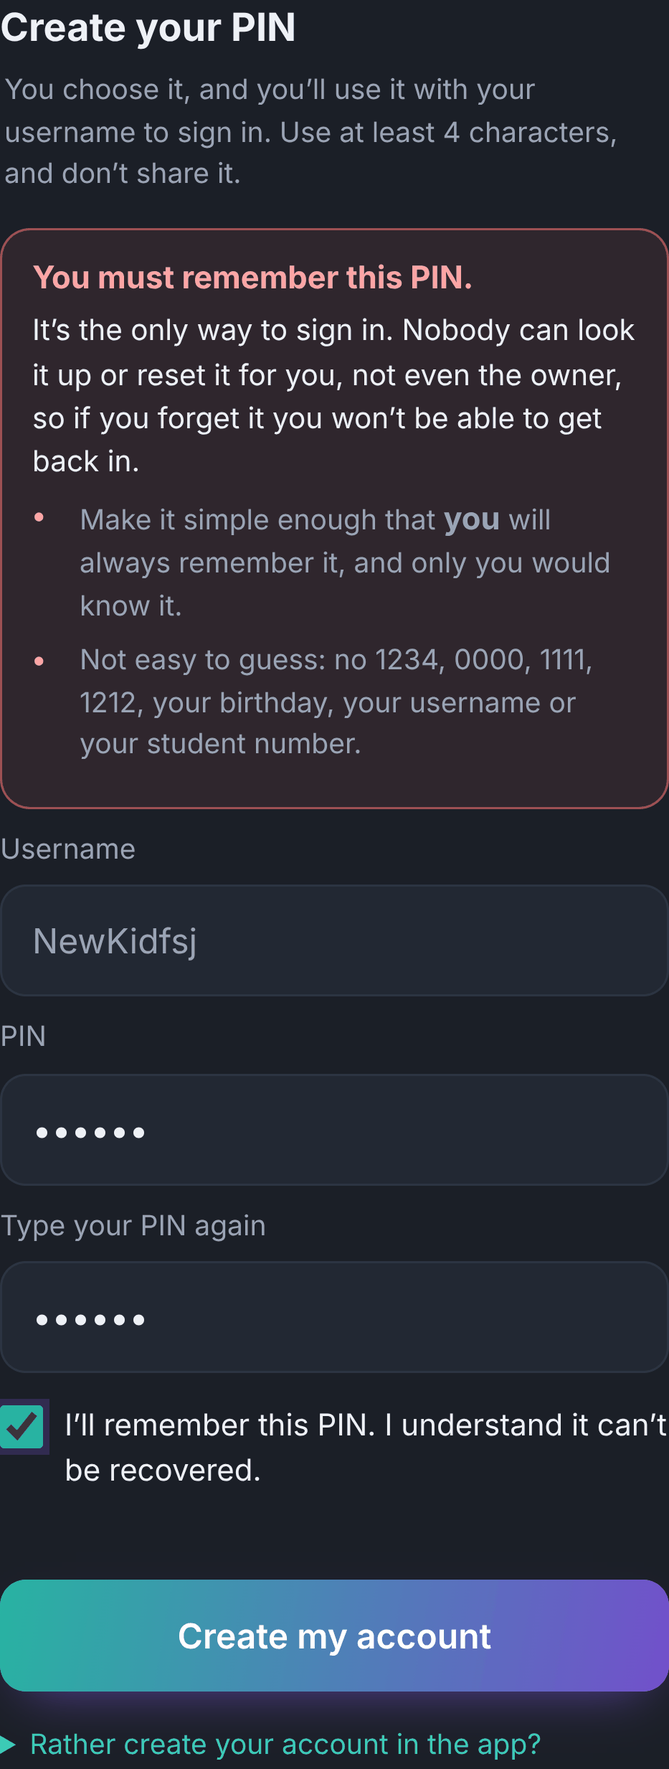
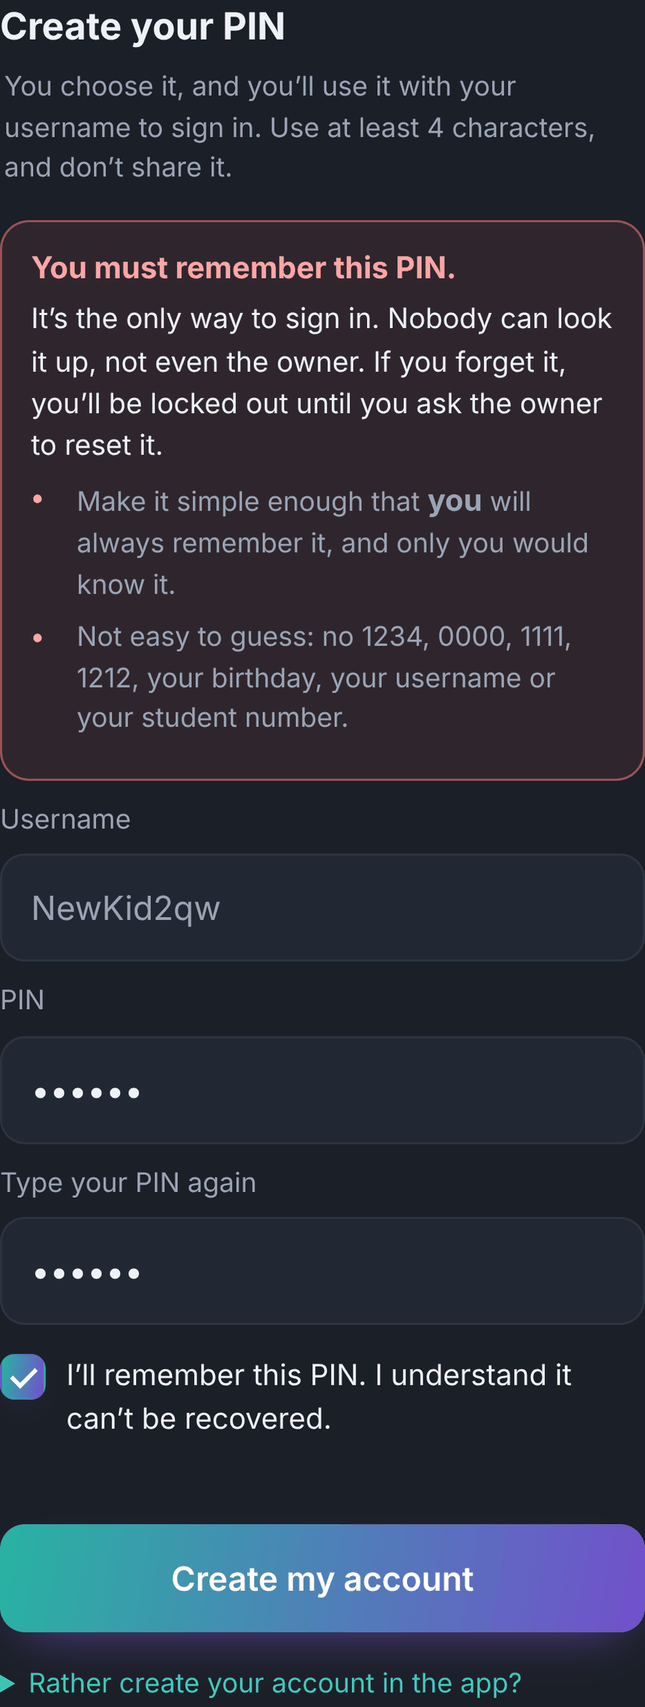
Reset a forgotten PIN with a one-time code; themed checkbox on the subscribe page
- Owner: Reset PIN (Allowed users rows, Users -> Actions) gives a one-time
  code (7 days) and signs the person out. They keep their account; at
  sign-in a new PIN plus the code sets it. Cancel reset stops it. Only the
  owner sees the codes. Replaces the old reset that deleted the account.
- Sign-in labels the code box "Reset code (from the owner)".
- Subscribe page: the checkbox matches the page (teal-to-violet when
  ticked); the warning says a forgotten PIN needs the owner to reset it.
- Screenshots updated in docs/screenshots (walkthrough, checkbox, PIN reset).

Claude-Session: https://claude.ai/code/session_01NctB9gYwwtoWGB2Q6rMk3L

diff --git a/script.js b/script.js
@@ -789,7 +789,10 @@ function modelSupportsReasoning(id) { return REASONING_MODELS.has((id || '').tri
       console: ['change', 'Subscribe page: contributions start at $6'] } },
     { at: '2026-10-19T03:00:00-04:00', commit: '', title: 'New subscribers: PIN warning and school email', parts: {
       console: ['feature', 'Subscribe page: a clear “you must remember this PIN” warning with a checkbox, easy-to-guess PINs refused, then the school email (6 digits @alseducation.onmicrosoft.com)'],
-      admin: ['feature', 'Security → New subscribers: each new subscriber’s school email, your instructions Google Doc link, and Email instructions (opens your mail app, then marks it sent); you and admins get an alert'] } }
+      admin: ['feature', 'Security → New subscribers: each new subscriber’s school email, your instructions Google Doc link, and Email instructions (opens your mail app, then marks it sent); you and admins get an alert'] } },
+    { at: '2026-10-19T04:00:00-04:00', commit: '', title: 'Reset a forgotten PIN safely', parts: {
+      admin: ['feature', 'Reset PIN (Allowed users rows and Users → Actions) now gives a one-time code: the person keeps their account and sets a new PIN at sign-in with it (7 days, one use); Cancel reset stops it'],
+      console: ['change', 'Sign-in asks for the owner’s reset code when a PIN was reset; the subscribe page’s checkbox matches the page’s style'] } }
   ];
   const PART_NAMES = {
     console: 'Console shell', selection: 'Selection assistant', welcome: 'Welcome', scan: 'Page Insights', ask: 'Ask AI', chat: 'Chat',
@@ -3114,7 +3117,7 @@ function modelSupportsReasoning(id) { return REASONING_MODELS.has((id || '').tri
         <label class="gpa-login-label" for="gpa-login-pin">PIN</label>
         <input id="gpa-login-pin" class="gpa-login-input" type="password" placeholder="••••••" autocomplete="off" />
         <div id="gpa-login-invite-wrap" hidden>
-          <label class="gpa-login-label" for="gpa-login-invite">Invite code</label>
+          <label class="gpa-login-label" for="gpa-login-invite" id="gpa-login-invite-label">Invite code</label>
           <input id="gpa-login-invite" class="gpa-login-input" placeholder="e.g. K7MQ-4X2P" autocomplete="off" autocapitalize="characters" spellcheck="false" />
         </div>
         <div id="gpa-login-msg" class="gpa-login-msg"></div>
@@ -16106,6 +16109,8 @@ function modelSupportsReasoning(id) { return REASONING_MODELS.has((id || '').tri
     if (!r.ok && r.inviteRequired && inviteWrap) {
       // An invited name: show the code box (only now, so nobody else ever sees it).
       inviteWrap.hidden = false;
+      const lab = panel.querySelector('#gpa-login-invite-label');
+      if (lab) lab.textContent = r.pinReset ? 'Reset code (from the owner)' : 'Invite code';
       showLoginMsg(serverSessionError, true);
       try { panel.querySelector('#gpa-login-invite').focus(); } catch (e) { /* ignore */ }
       return;
@@ -16254,13 +16259,14 @@ function modelSupportsReasoning(id) { return REASONING_MODELS.has((id || '').tri
           : r.status === 409 && r.data.inUse && r.data.sameComputer ? '“' + user + '” is already signed in on this computer' + (r.data.site ? ' on ' + r.data.site : '') + '.'
           : r.status === 409 && r.data.inUse ? '“' + user + '” is already signed in on another device. Sign out there first, or try again in about ' + (r.data.waitMin || 15) + ' min. The owner can also sign it out.'
             : r.status === 409 && r.data.exists ? 'That name is already taken.'
+              : r.status === 403 && r.data.inviteRequired && r.data.pinReset ? (r.data.wrongInvite ? 'That reset code isn’t right. Check it with the owner.' : 'The owner reset the PIN for “' + user + '”. Type the new PIN you want above and the reset code below, then tap Sign in.')
               : r.status === 403 && r.data.inviteRequired ? (r.data.wrongInvite ? 'That invite code isn’t right. Check it with the owner.' : '“' + user + '” needs its sign-up code (from your payment page, or the owner). Enter it below, then tap ＋ (create account) again.')
               : r.status === 403 && /reserved/.test(r.data.error || '') ? "This name is reserved for the console's owner."
                 : r.status === 403 && r.data.notAllowed ? ACCESS_DENIED_MSG
                   : r.status === 429 ? 'Too many attempts. Try again in a few minutes.'
                     : (r.data.error || ('HTTP ' + r.status));
         result = { ok: false, wrongPin: r.status === 401 || (r.status === 409 && !!r.data.exists), inUse: r.status === 409 && !!r.data.inUse,
-          sameComputer: r.status === 409 && !!r.data.sameComputer, site: (r.data && r.data.site) || '', inviteRequired: r.status === 403 && !!r.data.inviteRequired };
+          sameComputer: r.status === 409 && !!r.data.sameComputer, site: (r.data && r.data.site) || '', inviteRequired: r.status === 403 && !!r.data.inviteRequired, pinReset: r.status === 403 && !!r.data.pinReset };
       }
     } catch (e) {
       serverSessionStatus = 'offline';
@@ -21618,11 +21624,13 @@ function modelSupportsReasoning(id) { return REASONING_MODELS.has((id || '').tri
             + `<div class="gac-allow-row"><span class="gps-hint" id="gac-allow-count">${((d.config.allowlist && d.config.allowlist.users) || []).length} listed</span><button class="gps-btn primary" id="gac-allow-save" type="button">Save list</button></div>`
             + `<p class="gps-hint">One sign-in per name: while this is on, each listed name works only with its PIN, on one device at a time (admins and you can use several). A second device is refused while the first was used in the last 15 minutes; signing out frees the name right away.</p>`
             + ((d.config.allowAccounts || []).length ? `<ul class="gac-acct-list" id="gac-allow-accts">` + d.config.allowAccounts.map((a) => `<li class="gac-acct" data-user="${esc(a.user)}"><div class="gac-acct-top"><span class="gac-req-name">${esc(a.user)}</span>`
-              + `<span class="gac-req-badge ${a.signedIn ? 'pending' : ''}">${a.signedIn ? 'Signed in' : a.claimed ? 'Signed out' : 'No PIN yet'}</span></div>`
-              + `<div class="gac-req-meta">${a.claimed ? (a.lastSeen ? 'Last used ' + ago(a.lastSeen) + (a.country && a.country !== '??' ? ' · ' + esc(a.country) : '') + (a.device ? ' · ' + esc(deviceName(a.device)) : '') : 'PIN set ' + (a.createdAt ? ago(a.createdAt) : ''))
+              + `<span class="gac-req-badge ${a.signedIn ? 'pending' : ''}">${a.pinReset ? 'PIN reset' : a.signedIn ? 'Signed in' : a.claimed ? 'Signed out' : 'No PIN yet'}</span></div>`
+              + `<div class="gac-req-meta">${a.pinReset ? `Reset code <code class="gac-invite-code">${esc(a.pinReset)}</code> · give it to ${esc(a.user)}: on the sign-in screen they type “${esc(a.user)}”, a <b>new</b> PIN and this code, then tap Sign in. Works once, for 7 days; their old PIN still works until then.`
+                : a.claimed ? (a.lastSeen ? 'Last used ' + ago(a.lastSeen) + (a.country && a.country !== '??' ? ' · ' + esc(a.country) : '') + (a.device ? ' · ' + esc(deviceName(a.device)) : '') : 'PIN set ' + (a.createdAt ? ago(a.createdAt) : ''))
                 : a.invite ? `Invite code <code class="gac-invite-code">${esc(a.invite)}</code> · only someone with this code can create “${esc(a.user)}”. Give it to them.`
                   : 'The first person to create this account sets its PIN. Make sure it’s them, or make an invite code.'}</div>`
-              + (a.claimed ? `<div class="gac-req-actions">${a.signedIn ? '<button class="gps-btn" data-acct="revokesessions" type="button">Sign out</button>' : ''}<button class="gps-btn" data-acct="release" type="button">Reset PIN</button></div>`
+              + (a.claimed && a.pinReset ? `<div class="gac-req-actions"><button class="gps-btn primary" data-acct="invite-copy" type="button">Copy code</button><button class="gps-btn" data-acct="resetcancel" type="button">Cancel reset</button></div>`
+                : a.claimed ? `<div class="gac-req-actions">${a.signedIn ? '<button class="gps-btn" data-acct="revokesessions" type="button">Sign out</button>' : ''}<button class="gps-btn" data-acct="resetpin" type="button">Reset PIN</button></div>`
                 : `<div class="gac-req-actions">${a.invite ? '<button class="gps-btn" data-acct="invite-copy" type="button">Copy code</button><button class="gps-btn" data-acct="invite-revoke" type="button">Remove code</button>' : '<button class="gps-btn" data-acct="invite-make" type="button">Make invite code</button>'}</div>`)
               + `</li>`).join('') + `</ul>` : ''), 'account') : '')
           + `<div id="gac-legacy-security"></div></aside></div>`;
@@ -21752,7 +21760,8 @@ function modelSupportsReasoning(id) { return REASONING_MODELS.has((id || '').tri
           const user = btn.closest('.gac-acct').dataset.user, action = btn.dataset.acct;
           if (action === 'invite-copy') {
             const code = btn.closest('.gac-acct').querySelector('.gac-invite-code').textContent;
-            try { await navigator.clipboard.writeText(code); showToast('Copied ' + user + '’s invite code.'); } catch (err) { showToast(user + '’s invite code: ' + code); }
+            const what = btn.closest('.gac-acct').querySelector('.gac-req-badge').textContent === 'PIN reset' ? 'reset code' : 'invite code';
+            try { await navigator.clipboard.writeText(code); showToast('Copied ' + user + '’s ' + what + '.'); } catch (err) { showToast(user + '’s ' + what + ': ' + code); }
             return;
           }
           if (action === 'invite-make' || action === 'invite-revoke') {
@@ -21765,11 +21774,12 @@ function modelSupportsReasoning(id) { return REASONING_MODELS.has((id || '').tri
             } catch (err) { btn.disabled = false; showToast(err.message, { type: 'danger' }); }
             return;
           }
-          if (action === 'release' && !confirm('Reset the PIN for “' + user + '”? They’re signed out, and the next person to create “' + user + '” sets a new PIN — make sure that’s them.')) return;
+          if (action === 'resetpin' && !confirm('Reset the PIN for “' + user + '”? You get a one-time code to give them; with it they set a new PIN at sign-in. They’re signed out now, and keep their account and everything in it.')) return;
+          if (action === 'resetcancel' && !confirm('Cancel the PIN reset for “' + user + '”? The code stops working; their old PIN still works.')) return;
           btn.disabled = true;
           try {
             await api('/admin/user/action', { method: 'POST', body: { u: user, action } });
-            showToast(action === 'release' ? user + ' can set a new PIN now.' : user + ' was signed out.');
+            showToast(action === 'resetpin' ? 'Reset code made for ' + user + '. Copy it and give it to them.' : action === 'resetcancel' ? user + '’s PIN reset was cancelled.' : user + ' was signed out.');
             RENDER.security().catch((err) => errorBox('security', err));
           } catch (err) { btn.disabled = false; showToast(err.message, { type: 'danger' }); }
         });
@@ -22107,9 +22117,11 @@ function modelSupportsReasoning(id) { return REASONING_MODELS.has((id || '').tri
         + card('Actions', `<div class="gac-actions">`
           + (can('moderation.manage') ? `<button class="gps-btn" data-mod="${st.state === 'blocked' ? 'unblock' : 'block'}">${st.state === 'blocked' ? 'Unblock' : 'Block'}</button><button class="gps-btn" data-mod="mute" data-hours="1">Mute 1 hour</button><button class="gps-btn" data-mod="warn">Warn</button><button class="gps-btn" data-mod="${m.aiFrozen ? 'unfreezeai' : 'freezeai'}">${m.aiFrozen ? 'Unfreeze AI' : 'Freeze AI'}</button>${m.pending ? '<button class="gps-btn" data-mod="approve">Approve</button>' : ''}<button class="gps-btn" data-mod="kick">Sign out now</button>` : '')
           + (d.account && can('users.manage') ? '<button class="gps-btn" data-ua="revokesessions">Revoke sessions</button>' : '')
+          + (d.account && isOwner() && d.role !== 'owner' ? (d.pinReset ? '<button class="gps-btn" data-ua="resetcancel">Cancel PIN reset</button>' : '<button class="gps-btn" data-ua="resetpin">Reset PIN</button>') : '')
           + (d.account && can('users.suspend') ? `<button class="gps-btn" data-ua="${d.account.disabled ? 'enable' : 'disable'}">${d.account.disabled ? 'Enable account' : 'Disable account'}</button>` : '')
           + (can('users.delete') ? '<button class="gps-btn gps-btn-danger" data-ua="delete">Delete user…</button>' : '')
-          + `</div>`, 'users', 'gac-insp-actions')
+          + `</div>`
+          + (d.pinReset ? `<p class="gps-hint gac-reset-note">PIN reset code <code class="gac-invite-code">${esc(d.pinReset.code)}</code>: give it to ${esc(d.user)}. On the sign-in screen they type their username, a <b>new</b> PIN and this code, then tap Sign in. Works once, until ${esc(new Date(d.pinReset.until).toLocaleDateString([], { month: 'short', day: 'numeric' }))}.</p>` : ''), 'users', 'gac-insp-actions')
         + `</aside></div>`;
       box.querySelector('#gac-insp-close').addEventListener('click', () => { box.hidden = true; state.inspecting = null; });
       box.querySelectorAll('[data-ua]').forEach((b) => b.addEventListener('click', async () => {
@@ -22118,6 +22130,7 @@ function modelSupportsReasoning(id) { return REASONING_MODELS.has((id || '').tri
         if (action === 'setrole') payload.role = box.querySelector('#gac-role').value;
         if (action === 'quota') box.querySelectorAll('[data-q]').forEach((i) => { payload[i.dataset.q] = i.dataset.q === 'allowedModels' ? i.value.split(',').map((x) => x.trim()).filter(Boolean) : i.value; });
         if (action === 'delete') { const c = await typedConfirm(b, key, 'Delete user'); if (!c) return; payload.confirm = c; }
+        if (action === 'resetpin' && !confirm('Reset the PIN for “' + d.user + '”? You get a one-time code to give them; with it they set a new PIN at sign-in. They’re signed out now, and keep their account and everything in it.')) return;
         try { await api('/admin/user/action', { method: 'POST', body: payload }); showToast('Done.'); if (action === 'delete') { box.hidden = true; RENDER.users(); } else openUser(key); }
         catch (e) { showToast(e.message, { type: 'danger' }); }
       }));

diff --git a/worker.js b/worker.js
@@ -1372,6 +1372,8 @@ async function handleRequest(req, env, ctx, operationReserved = false) {
       return c.slice(0, 4) + '-' + c.slice(4);
     };
     const normInvite = (c) => String(c || '').toUpperCase().replace(/[^A-Z0-9]/g, '');
+    // A PIN reset the owner started: { code, until, by } (7 days, one use).
+    const pinResetKey = (u) => 'pinreset:' + String(u || '').toLowerCase().slice(0, 40);
     const SUB_ENDED = 'Your subscription has ended. Ask the owner to renew it.';
     const subscriptionOf = (cfg, user) => {
       const u = String(user || '').trim().toLowerCase();
@@ -2141,7 +2143,28 @@ async function handleRequest(req, env, ctx, operationReserved = false) {
         const verifier = String(body.verifier || '');
         const acct = await getAcct(kv, user);
         if (!acct) return json({ ok: false, error: 'no account', missing: true }, 404);
-        const ok = await timingSafeEqualStr(await sha256hex(acct.salt + '|' + verifier), acct.verifier);
+        let ok = await timingSafeEqualStr(await sha256hex(acct.salt + '|' + verifier), acct.verifier);
+        // The owner reset this PIN (Admin → Reset PIN): the one-time reset
+        // code they gave the person sets the new PIN typed with it. The old
+        // PIN keeps working until then; the account and its data stay.
+        const reset = !ok && /^[0-9a-f]{64}$/.test(verifier) ? await kv.get(pinResetKey(acct.user), 'json') : null;
+        if (reset && reset.until > Date.now()) {
+          if (!body.invite) return json({ ok: false, error: 'The owner reset this PIN. Type the new PIN you want and the reset code they gave you.', inviteRequired: true, pinReset: true }, 403);
+          if (!(await timingSafeEqualStr(normInvite(body.invite), normInvite(reset.code)))) {
+            await noteFailure(kv, 'login', ip);
+            await noteSec('pinreset_wrong', { user: acct.user });
+            return json({ ok: false, error: 'That reset code isn’t right.', inviteRequired: true, pinReset: true, wrongInvite: true }, 403);
+          }
+          const salt = randHex(16);
+          acct.salt = salt;
+          acct.verifier = await sha256hex(salt + '|' + verifier);
+          acct.sessions = [];
+          await kv.put(acctKey(acct.user), JSON.stringify(acct));
+          await kv.delete(pinResetKey(acct.user));   // used up
+          await noteSec('pin_reset_done', { user: acct.user });
+          notify({ cat: 'security', title: acct.user + ' set a new PIN', body: 'With the reset code you gave them.', url: adminLink('security', { focus: 'allow', user: acct.user }) });
+          ok = true;
+        }
         if (!ok) {
           await noteFailure(kv, 'login', ip);
           await noteSec('login_failed', { user: acct.user });
@@ -4541,7 +4564,8 @@ async function handleRequest(req, env, ctx, operationReserved = false) {
           rollup: r || null, moderation: { ...modSafe, hasUnlockCode: !!unlock, effective: st }, quota: effQuota(mod, cfg),
           usage, memory: memCounts, security: security.slice(-40).reverse(), audit,
           assignedKey: !!(await kv.get('key:openai:' + u)),
-          flair: (cfg.flair && cfg.flair[u]) || null
+          flair: (cfg.flair && cfg.flair[u]) || null,
+          pinReset: await (async () => { const rs = a && authedLevel === 'owner' ? await kv.get(pinResetKey(u), 'json') : null; return rs && rs.until > Date.now() ? { code: rs.code, until: rs.until } : null; })()
         });
       }
 
@@ -4550,7 +4574,7 @@ async function handleRequest(req, env, ctx, operationReserved = false) {
         const u = String(body.u || '').toLowerCase().slice(0, 40);
         const action = String(body.action || '');
         if (!u) return json({ error: 'u required' }, 400);
-        const need = { setrole: 'owner', release: 'owner', delete: 'users.delete', disable: 'users.suspend', enable: 'users.suspend', revokesessions: 'users.manage', quota: 'ai.manage', flair: 'users.manage' }[action];
+        const need = { setrole: 'owner', release: 'owner', resetpin: 'owner', resetcancel: 'owner', delete: 'users.delete', disable: 'users.suspend', enable: 'users.suspend', revokesessions: 'users.manage', quota: 'ai.manage', flair: 'users.manage' }[action];
         if (!need) return json({ error: 'unknown action' }, 400);
         const denied = await guard(req, url, env, need);
         if (denied) return denied;
@@ -4609,6 +4633,22 @@ async function handleRequest(req, env, ctx, operationReserved = false) {
           await kv.put(key, JSON.stringify(cur));
           await logAudit(kv, { route: url.pathname, action: 'quota', target: u, meta: { before, after } });
           return json({ ok: true, quota: after });
+        }
+        if (action === 'resetpin') {
+          // A one-time code (7 days) that lets them set a new PIN at sign-in;
+          // they're signed out everywhere now. The account and data stay.
+          if (!a) return json({ error: 'no account' }, 404);
+          const code = makeInviteCode(), until = Date.now() + 7 * 864e5;
+          await kv.put(pinResetKey(u), JSON.stringify({ code, until, at: Date.now(), by: OWNER }), { expirationTtl: 7 * 24 * 3600 });
+          a.epoch = (a.epoch || 0) + 1; a.sessions = [];
+          await kv.put(acctKey(u), JSON.stringify(a));
+          await logAudit(kv, { route: url.pathname, action, target: u });
+          return json({ ok: true, code, until });
+        }
+        if (action === 'resetcancel') {
+          await kv.delete(pinResetKey(u));
+          await logAudit(kv, { route: url.pathname, action, target: u });
+          return json({ ok: true });
         }
         if (action === 'release') {
           if (!a) return json({ error: 'no account' }, 404);
@@ -4704,9 +4744,10 @@ async function handleRequest(req, env, ctx, operationReserved = false) {
               const a = (accts.find((x) => String(x.value.user || '').toLowerCase() === u) || {}).value;
               const s = a && (a.sessions || [])[0];
               const inv = a ? null : await kv.get(inviteKey(u), 'json');
+              const rs = a && authedLevel === 'owner' ? await kv.get(pinResetKey(u), 'json') : null;   // the code is the owner's to give
               return { user: u, claimed: !!a, createdAt: a ? a.createdAt || 0 : 0, signedIn: !!(a && liveSession(a, Date.now())),
                 lastSeen: s ? s.lastSeen || s.createdAt || 0 : 0, country: s ? s.country || '' : '', device: s ? s.ua || '' : '',
-                invite: inv ? inv.code : '' };
+                invite: inv ? inv.code : '', pinReset: rs && rs.until > Date.now() ? rs.code : '' };
             })),
             blockedCountries: cfg.blockedCountries || [], allowedOrigins: cfg.allowedOrigins || []
           },

diff --git a/web/subscribe.js b/web/subscribe.js
@@ -257,7 +257,12 @@ export function subscribePage(env, { ready, cents }) {
   .warn b { display: block; color: #fca5a5; margin-bottom: 4px; font-size: 14.5px; }
   .warn ul { margin: 6px 0 0; color: var(--sub); font-size: 13px; } .warn ul li::before { content: "•"; color: #fca5a5; }
   .check { display: flex; gap: 10px; align-items: flex-start; font-size: 14px; color: var(--text); margin: 14px 0 6px !important; cursor: pointer; }
-  .check input { width: 20px; height: 20px; flex: 0 0 20px; margin: 1px 0 0; padding: 0; accent-color: var(--teal); }
+  .check input { -webkit-appearance: none; appearance: none; position: relative; width: 22px; height: 22px; flex: 0 0 22px; margin: 0; padding: 0; border-radius: 7px; border: 1.5px solid var(--border); background: var(--field); cursor: pointer; transition: background .15s, border-color .15s, box-shadow .15s; }
+  .check input:hover { border-color: var(--violet); }
+  .check input:focus-visible { outline: none; box-shadow: 0 0 0 3px rgba(114,80,203,0.35); }
+  .check input:checked { border-color: transparent; background: var(--accent); box-shadow: 0 6px 16px -8px rgba(114,80,203,0.9); }
+  .check input:checked::after { content: ""; position: absolute; left: 7px; top: 3px; width: 5px; height: 10px; border: solid #fff; border-width: 0 2.4px 2.4px 0; transform: rotate(45deg); }
+  @media (prefers-reduced-motion: reduce) { .check input { transition: none; } }
   .email-box { display: flex; align-items: center; background: var(--field); border: 1px solid var(--border); border-radius: 12px; padding: 0 14px; }
   .email-box:focus-within { border-color: var(--violet); box-shadow: 0 0 0 3px rgba(114,80,203,0.25); }
   .email-box input { width: 7.2ch; flex: 0 0 auto; border: 0; background: none; box-shadow: none !important; padding: 13px 0; letter-spacing: 0.04em; font-variant-numeric: tabular-nums; }
@@ -317,7 +322,7 @@ export function subscribePage(env, { ready, cents }) {
     <form id="pin-form" hidden>
       <h2 class="pin-h">Create your PIN</h2>
       <p class="hint">You choose it, and you’ll use it with your username to sign in. Use at least 4 characters, and don’t share it.</p>
-      <div class="warn" role="note" id="pin-warn"><b>You must remember this PIN.</b>It’s the only way to sign in. Nobody can look it up or reset it for you, not even the owner, so if you forget it you won’t be able to get back in.
+      <div class="warn" role="note" id="pin-warn"><b>You must remember this PIN.</b>It’s the only way to sign in. Nobody can look it up, not even the owner. If you forget it, you’ll be locked out until you ask the owner to reset it.
         <ul><li>Make it simple enough that <b style="display:inline;color:inherit">you</b> will always remember it, and only you would know it.</li><li>Not easy to guess: no 1234, 0000, 1111, 1212, your birthday, your username or your student number.</li></ul></div>
       <label for="pin-user">Username</label>
       <input id="pin-user" autocomplete="username" readonly>

diff --git a/README.md b/README.md
@@ -424,6 +424,8 @@ else got there first, use **Reset PIN**.
 
 **New subscribers' school email.** Right after paying, a new subscriber makes their own PIN. The page warns in red that they **must remember it** (nobody, not even you, can look it up or reset it), asks for something simple only they would know but not easy to guess, refuses obvious PINs (1234, 0000, 9876, a year, their username…), and won't continue until they tick **I'll remember this PIN**. Then they add their **school email**: they type only the 6 numbers, and `@alseducation.onmicrosoft.com` is fixed in the box (letters and a 7th digit can't be typed). You get a phone alert ("New subscriber email"), and so does each admin who turned on alerts in their app. **Admin → Security → New subscribers** (you and admins) lists each one with their email. Paste your instructions **Google Doc link** once and tap **Save link**. Then **Email instructions** opens your mail app with a message to them that already has the Google Doc link and their username in it, and marks them **Sent** (with who sent it). **Copy email** and **Remove** are there too. The email also shows on their Subscribers row. The Worker can't send email itself (there's no email service connected); the message goes from your own mail app. A subscriber can fix a typo in their email up to twice.
 
+**Resetting a forgotten PIN.** **Admin → Security → Allowed users → Reset PIN** on their row (or Admin → Users → their name → **Reset PIN**). You get a one-time **reset code** (like `GJKT-TTW6`) with **Copy code** and **Cancel reset**, and they're signed out everywhere. Tell them: on the sign-in screen type your username and a **new** PIN, tap **Sign in**, then type the reset code when it asks and tap Sign in again. They keep their account, subscription, music and everything else. The code works once, for 7 days; until it's used their old PIN still works. Only you can reset PINs (admins can't see the codes). The old way (deleting the account so the next person to create the name sets the PIN) is gone from the panel because anyone could grab the name first.
+
 **Free access (override).** When you're feeling generous: **Admin → Security → Free access** (right above Subscribers) lets someone in for free, whatever their subscription says. Type the name, pick **No end date** (the default) or 1 week to 1 year, add a note if you like, and tap **Give free access**: they're put on Allowed users and can sign in right away. Their row says **Free · no end** (or **Free until Oct 25**) with who gave it; Subscribers shows them too, with only **End free access**. Admins and moderators can do this as well (moderators find the card under **Moderation**, since they don't have Security), and you get a phone alert whenever one of them does. Free access never shortens time someone already paid for, isn't counted as money, and the subscribe page tells them there's nothing to pay (they can still contribute). Someone billed monthly through Stripe is refused (cancel it in Stripe first, so they aren't charged). **End free access** signs them out and takes them off Allowed users. Admins and moderators never need it: they're always in, and making someone staff removes any automatic month.
 
 **Requesting access.** Under "Unable to create account" the sign-in screen

diff --git a/HANDOFF.md b/HANDOFF.md
@@ -13,6 +13,9 @@ list (rounds 1–3) was finished and pushed.
 ### Status right now
 - **Nothing is half-done.** All work from this session is on `main` and
   deployed (pushing to `main` deploys; see below). The last commit:
+  **PIN reset with a one-time code** + themed checkbox on the subscribe page
+  (owner: "make it so i can reset their pin incase any of them… forget it";
+  "style the check box button to make it match the theme"). Before that:
   **New subscribers' school email** (owner: "prompt them that it is mandatory
   they remember this pin… after they create their own pin… add their email…
   only allowed to type the 6 digit… sent to the admins via app (and
@@ -444,6 +447,20 @@ day, 14 days; not system notices), `trivia` (#public only). Memory only:
   Email instructions is a `mailto:` (no email service on the Worker) and
   marks `sentAt`/`sentBy`. Tests: subscribe.test.mjs "school email",
   subscribe.mjs step 2 and the owner card.
+  **PIN reset** (owner only): `/admin/user/action` `resetpin` →
+  `pinreset:<name>` `{code, until (7 days), by}` (KV TTL), bumps `epoch` and
+  clears sessions (signed out), returns the code; `resetcancel` deletes it.
+  `/auth/login`: a wrong verifier with a live reset → 403 `{inviteRequired,
+  pinReset}` until `body.invite` matches (timing-safe, wrong code counts
+  toward the login lockout), then the typed PIN's verifier replaces the old
+  one (new salt), the key is deleted, owner alert (cat `security`), normal
+  sign-in continues. The old PIN keeps working until then. The code only
+  reaches the owner (`authedLevel === 'owner'` in `allowAccounts` and
+  `/admin/user`). UI: Allowed users rows (Reset PIN → code, Copy code,
+  Cancel reset), Users → Actions; the sign-in code box relabels to "Reset
+  code (from the owner)". `release` (delete the account record) still
+  exists server-side but no button uses it. Tests: worker.test.mjs "PIN
+  reset", subscribe.mjs end.
 
 ### 4.2 Chat
 All rooms live in `ChatRoom` DOs. The console polls every 3 s while Chat is
@@ -639,7 +656,7 @@ real client build is separate, see `eaglercraft/README.md`), Saints Command.
 ## 6. Testing
 
 ```bash
-npm test                                   # node --test tests/*.test.mjs (120 tests)
+npm test                                   # node --test tests/*.test.mjs (121 tests)
 npx wrangler deploy --dry-run --outdir /tmp/x   # bundle/config check, deploys nothing
 # Browser suites (Playwright vs local workerd), each takes an output dir for screenshots:
 node tests/browser/eaglercraft.e2e.mjs     # 83
@@ -665,7 +682,7 @@ node tests/browser/my-music.mjs            # 15
 node tests/browser/admin-app.mjs           # 20
 node tests/browser/playlists.mjs           # 23
 node tests/browser/mp3.mjs                 # 51 (+1 NOT RUN: real YouTube download; needs ffmpeg/ffprobe)
-node tests/browser/subscribe.mjs           # 53
+node tests/browser/subscribe.mjs           # 57
 node tests/browser/usage-meter.mjs         # 16
 node tests/browser/usage-meter-sizes.mjs   # 25
 node tests/browser/ask-photo-size.mjs      # 6

diff --git a/docs/screenshots/README.md b/docs/screenshots/README.md
@@ -14,6 +14,7 @@ new subscriber and then the owner would see things.
 | [3-playlists](#3-playlists-everyone-signed-in) | Spotify / Apple Music playlist → YouTube links, for everyone |
 | [4-youtube-to-mp3](#4-youtube-to-mp3-owner) | The MP3 converter in Music → My music |
 | [5-subscribe-page](#5-subscribe-page) | The payment page and the $6 contribution box |
+| [6-pin-reset](#6-resetting-a-forgotten-pin-owner) | Resetting someone's forgotten PIN: your code, what they type |
 
 ---
 
@@ -54,8 +55,12 @@ Admin → Security → New subscribers.
 
 ## 1. A new subscriber after paying (close-ups)
 
-**Create your PIN.** The red box says they must remember it and nobody can
-reset it. Easy PINs (1234, 0000, 9876, a year…) are refused, and the
+**The checkbox** (styled like the rest of the page: teal-to-violet when ticked).
+
+<img src="1-new-subscriber/0-checkbox-close-up.png" width="420" alt="Ticked checkbox with the site's teal-to-violet gradient">
+
+**Create your PIN.** The red box says they must remember it, nobody can look
+it up, and if they forget it they're locked out until the owner resets it. Easy PINs (1234, 0000, 9876, a year…) are refused, and the
 checkbox must be ticked.
 
 <img src="1-new-subscriber/1-create-pin-warning.png" width="320" alt="Create your PIN with the must-remember warning and checkbox">
@@ -133,3 +138,21 @@ The payment page, and the contribution box for people who already
 subscribe (from $6).
 
 <img src="5-subscribe-page/1-subscribe.png" width="320" alt="Subscribe page"> <img src="5-subscribe-page/2-contribute-6-dollars.png" width="320" alt="Contribute box starting at $6">
+
+---
+
+## 6. Resetting a forgotten PIN (owner)
+
+**Admin → Security → Allowed users → Reset PIN** on their row (or **Reset
+PIN** in Admin → Users → their name → Actions). You get a one-time code and
+the exact words to tell them; **Copy code** or **Cancel reset**. They're
+signed out right away and keep their account, subscription and everything in it.
+
+<img src="6-pin-reset/1-owner-gets-reset-code.png" width="420" alt="Allowed users row with the reset code and Copy code / Cancel reset">
+
+**What they do:** on the sign-in screen, type their username and a **new**
+PIN and tap Sign in. The console asks for the **Reset code (from the owner)**.
+They type it, tap Sign in again, and they're back in with the new PIN. The
+code works once, for 7 days; their old PIN works until then.
+
+<img src="6-pin-reset/2-user-types-new-pin-and-code.png" width="640" alt="Sign-in screen asking for the reset code">
